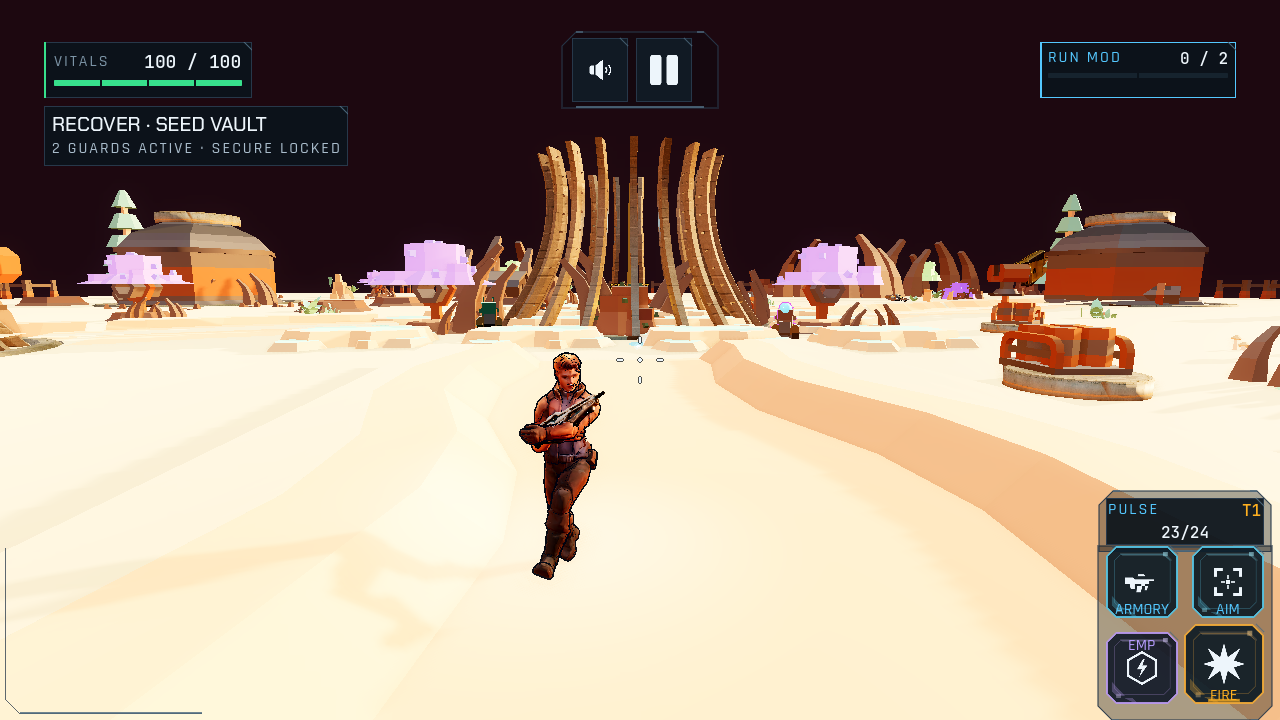
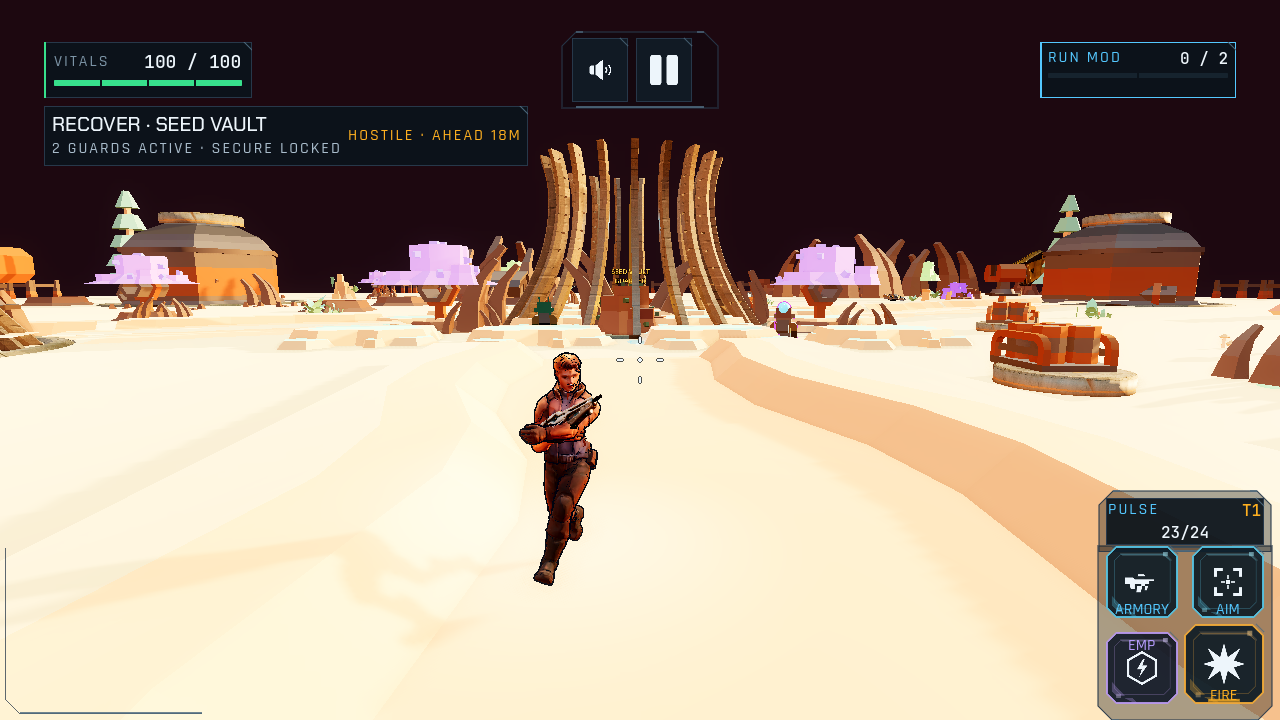
docs(validation): refresh runtime QA evidence and touch/motion scripts after audit polish

diff --git a/docs/VALIDATION.md b/docs/VALIDATION.md
@@ -8,27 +8,27 @@ For intended behavior, read [`GAMEPLAY_DESIGN.md`](GAMEPLAY_DESIGN.md). For requ
 
 | Item | Current checkpoint |
 |---|---|
-| Runtime, UI/UX, and E2E QA source | `390491f286f13de6f0d153e81a22a2576996b12f` |
-| Godot/Web CI | [40986603110](https://github.com/xam-eth/Cyber-Strike/actions/runs/40986603110) — **SUCCESS** (`Static checks`, `Headless smoke tests 38/38`, `Web preview build` including Step 20 `--recovery-e2e`) |
-| Committed Web payload | `dd7aa81` |
[1 lines of base64/hex data omitted]
+| Runtime, UI/UX, and E2E QA source | `fa9fc75` (audit stabilization over `b7794ae`) |
+| Godot/Web CI | [41036347813](https://github.com/xam-eth/Cyber-Strike/actions/runs/41036347813) — **SUCCESS** (`Static checks`, `Headless smoke tests 38/38`, `Web preview build` including Step 20 `--recovery-e2e`) |
+| Committed Web payload | `2ee3fb9` |
[2 lines of base64/hex data omitted]
 | Desktop `1280×720` E2E evidence | [`../qa-evidence/tech-hunt/recovery-e2e-1280x720.json`](../qa-evidence/tech-hunt/recovery-e2e-1280x720.json) (12 runtime captures) |
 | Mobile `844×390` Recovery evidence | [`../qa-evidence/tech-hunt/recovery-mobile-844x390.json`](../qa-evidence/tech-hunt/recovery-mobile-844x390.json) (5 runtime captures) |
 
 ### What this checkpoint verifies
 
-- **VERIFIED (Automated Chromium TECH HUNT E2E — `Verdant clear → Arc Blueprint secure → Extract → Tier-2 → 106-vital redeploy`):**
-  - Executed both in CI ([40986603110](https://github.com/xam-eth/Cyber-Strike/actions/runs/40986603110), Step 20) and locally against payload `dd7aa81` (`node tools/web_qa.mjs --recovery-e2e --viewport 1280x720`) with **0 failed checks and 0 page/script errors**:
+- **VERIFIED (Automated Chromium TECH HUNT E2E — `Verdant clear → Arc Blueprint secure → Extract (+20 BP) → Tier-2 → 106-vital redeploy`):**
+  - Executed both in CI ([41036347813](https://github.com/xam-eth/Cyber-Strike/actions/runs/41036347813), Step 20) and locally against payload `2ee3fb9` (`node tools/web_qa.mjs --recovery-e2e --viewport 1280x720`) with **0 failed checks and 0 page/script errors**:
     1. **Tier 1 landing & relative guidance:** Deployed Sable at `VITALS 100 / 100` (`tier=1/1 reduction=0%`) in Verdant Bloom with immediate relative objective readout (`RECOVER · SEED VAULT / ARC SHOOTER BLUEPRINT · APPROACH · AHEAD 9M`) — [`root-1280x720-recovery-landing.png`](../qa-evidence/tech-hunt/root-1280x720-recovery-landing.png).
-    2. **Real guard engagement & clear:** Triggered `ENGAGE GUARDS [B]` ([`root-1280x720-recovery-engage-offer.png`](../qa-evidence/tech-hunt/root-1280x720-recovery-engage-offer.png)), verified `SECURE LOCKED` with active guard bearing (`HOSTILE · AHEAD` / `LEFT`) across `Guard_verdant_seed_vault_01` and `Guard_verdant_seed_vault_02` ([`root-1280x720-recovery-guarded.png`](../qa-evidence/tech-hunt/root-1280x720-recovery-guarded.png), [`root-1280x720-recovery-contact.png`](../qa-evidence/tech-hunt/root-1280x720-recovery-contact.png)), and eliminated both guards through real projectile/ADS combat (`guards=0`).
-    3. **Explicit Secure & unclipped Mission Complete breakdown:** Approached the Seed Vault (`SECURE CACHE [B]`, [`root-1280x720-recovery-ready-to-secure.png`](../qa-evidence/tech-hunt/root-1280x720-recovery-ready-to-secure.png)), secured the `arc_shooter` blueprint, and verified the unclipped `RECOVERY COMPLETE` card showing `ARC SHOOTER BLUEPRINT SECURED`, `NEW ARMORY ELIGIBILITY · ARC SHOOTER`, `ARMORY UNLOCK COST · 250 BP`, and `EXTRACT BANKS RUN #1 · UNLOCKS TIER 2 (106 HP · 3% ARMOR)` ([`root-1280x720-recovery-mission-complete.png`](../qa-evidence/tech-hunt/root-1280x720-recovery-mission-complete.png)).
-    4. **Exact-once Extract & persistent IndexedDB/localStorage handoff:** Selected `EXTRACT` (`completed_runs: 0 → 1`), verified the unclipped `EXTRACTION COMPLETE` breakdown separating kept permanent progress (`SECURED · ARC SHOOTER BLUEPRINT`, `PROMOTED · SABLE TIER 2 READY (106 HP · 3% ARMOR)`) from cleared temporary field state (`RESET · FIELD ENEMIES & TEMP RUN STATE CLEARED`) and next-step guidance (`NEXT · HOME > OPERATIVE > TIER 2 (106 HP) > REDEPLOY`) ([`root-1280x720-recovery-results-extracted.png`](../qa-evidence/tech-hunt/root-1280x720-recovery-results-extracted.png)), then returned via `HOME` after clean `Sfx.shutdown()` + Emscripten `IDBFS` `/userfs` flush (`aegis.runs = "1"`, `arc_shooter` blueprint saved, `verdant_seed_vault` secured) ([`root-1280x720-recovery-hub-tier2-ready.png`](../qa-evidence/tech-hunt/root-1280x720-recovery-hub-tier2-ready.png)).
-    5. **Tier 2 Plated selection, Arc Shooter rack eligibility, & 106-vital redeploy:** Opened `OPERATIVE`, selected newly unlocked `T2 PLATED` (`hero_human_tier_2.glb`, `VITALS 106 +6 HP`, `ARMOUR 3% blocked`, `1 / 3 RUNS TO TIER 3`) ([`root-1280x720-recovery-operative-tier2.png`](../qa-evidence/tech-hunt/root-1280x720-recovery-operative-tier2.png)), verified `ARC SHOOTER` transitioned from `BLUEPRINT` to `250 BP` in the weapon rack ([`root-1280x720-recovery-rack-arc-eligible.png`](../qa-evidence/tech-hunt/root-1280x720-recovery-rack-arc-eligible.png)), and redeployed into Verdant Bloom at `VITALS 106 / 106` (`Operative: hero=sable tier=2/2 vitals=106 reduction=3%`) with Seed Vault preserved as `SECURED` and HUD guidance automatically retargeting the optional cache (`OPTIONAL · LAB CACHE · PERMANENT +80 BP · LEFT 44M`) ([`root-1280x720-recovery-redeploy-tier2-106hp.png`](../qa-evidence/tech-hunt/root-1280x720-recovery-redeploy-tier2-106hp.png)).
-- **VERIFIED (Escalating lost-player guidance & `844×390` mobile layout):**
-  - Headless Godot `tests/recovery_smoke.gd` (`38/38` CI smoke suite) verified Area → Local (`AHEAD` / `LEFT` / `RIGHT` / `TURN AROUND` + distance) → Stuck escalation after `14s` without progress (`FOLLOW BEACON`), immediate reset on progress, combat guard tracking, and automatic shift from `verdant_seed_vault` to optional `verdant_crashed_lab` after primary secure.
-  - Mobile landscape `844×390` browser verification passed all checks without clipping or touch-cluster overlap ([`root-844x390-recovery-landing.png`](../qa-evidence/tech-hunt/root-844x390-recovery-landing.png), [`root-844x390-recovery-guarded.png`](../qa-evidence/tech-hunt/root-844x390-recovery-guarded.png)).
-- **VERIFIED (local static gates):** `./scripts/dev_check.sh` passed with **0 failed steps and 2 expected local skips**: 96/96 GDScript files parsed/linted/formatted, `0 FAIL` in `project_doctor.py`, `19/19` canonical documents, `103` tooling tests, `0` static-call or boundary violations, `327/327` EN/ID localization keys, `123` hero/tier checks, and synchronized `docs/ARCHITECTURE.md` module map.
+    2. **Real guard engagement, KO rewards, & clear:** Triggered `ENGAGE GUARDS [B]` ([`root-1280x720-recovery-engage-offer.png`](../qa-evidence/tech-hunt/root-1280x720-recovery-engage-offer.png)), verified elevated 3D `RecoveryLabel` (`y = 2.55`), `SECURE LOCKED` with active guard bearing (`HOSTILE · AHEAD` / `LEFT`) across `Guard_verdant_seed_vault_01` and `Guard_verdant_seed_vault_02` ([`root-1280x720-recovery-guarded.png`](../qa-evidence/tech-hunt/root-1280x720-recovery-guarded.png), [`root-1280x720-recovery-contact.png`](../qa-evidence/tech-hunt/root-1280x720-recovery-contact.png)), and eliminated both guards through real projectile/ADS combat (`RUNNER KO · +10 BP`, `SHOOTER KO · +10 BP`, `guards=0`).
+    3. **Explicit Secure & unclipped Mission Complete breakdown:** Approached the Seed Vault (`SECURE CACHE [B]`, [`root-1280x720-recovery-ready-to-secure.png`](../qa-evidence/tech-hunt/root-1280x720-recovery-ready-to-secure.png)), secured the `arc_shooter` blueprint, and verified the unclipped `RECOVERY COMPLETE` card with `check`-icon `EXTRACT`, `ARC SHOOTER BLUEPRINT SECURED`, `NEW ARMORY ELIGIBILITY · ARC SHOOTER`, `ARMORY UNLOCK COST · 250 BP`, and `EXTRACT BANKS RUN #1 · UNLOCKS TIER 2 (106 HP · 3% ARMOR)` ([`root-1280x720-recovery-mission-complete.png`](../qa-evidence/tech-hunt/root-1280x720-recovery-mission-complete.png)).
+    4. **Exact-once Extract (+20 BP banked) & persistent IndexedDB/localStorage handoff:** Selected `EXTRACT` (`completed_runs: 0 → 1`, `balance: 0 → 20`, `best_score: 0 → 200`), verified the unclipped `EXTRACTION COMPLETE` breakdown (`+20 BP BANKED`, `RETURN TO EXPLORE` reset, `SECURED · ARC SHOOTER BLUEPRINT`, `PROMOTED · SABLE TIER 2 READY (106 HP · 3% ARMOR)`, `RESET · FIELD ENEMIES & TEMP RUN STATE CLEARED`, and `ESC` pause-overlay guard) ([`root-1280x720-recovery-results-extracted.png`](../qa-evidence/tech-hunt/root-1280x720-recovery-results-extracted.png)), then returned via `HOME` after clean `Sfx.shutdown()` + Emscripten `IDBFS` `/userfs` flush (`20 BP · 1 RUN · BEST 200`, `arc_shooter` blueprint saved, `verdant_seed_vault` secured) ([`root-1280x720-recovery-hub-tier2-ready.png`](../qa-evidence/tech-hunt/root-1280x720-recovery-hub-tier2-ready.png)).
+    5. **Tier 2 Plated selection, Arc Shooter rack eligibility, & 106-vital redeploy:** Opened `OPERATIVE`, selected newly unlocked `T2 PLATED` (`hero_human_tier_2.glb`, `VITALS 106 +6 HP`, `ARMOUR 3% blocked`, `1 / 3 RUNS TO TIER 3`) ([`root-1280x720-recovery-operative-tier2.png`](../qa-evidence/tech-hunt/root-1280x720-recovery-operative-tier2.png)), verified `ARC SHOOTER` transitioned from `BLUEPRINT` to `250 BP` in the weapon rack ([`root-1280x720-recovery-rack-arc-eligible.png`](../qa-evidence/tech-hunt/root-1280x720-recovery-rack-arc-eligible.png)), and redeployed into Verdant Bloom at `VITALS 106 / 106` (`Operative: hero=sable tier=2/2 vitals=106 reduction=3%`) with Seed Vault preserved as `SECURED`, `"hud-weapon"` Armory button icon, and HUD guidance automatically retargeting the optional cache (`OPTIONAL · LAB CACHE · PERMANENT +80 BP · LEFT 44M`) ([`root-1280x720-recovery-redeploy-tier2-106hp.png`](../qa-evidence/tech-hunt/root-1280x720-recovery-redeploy-tier2-106hp.png)).
+- **VERIFIED (Pre-Track 2 Audit Stabilization across HUD, Modals, Web Shell, Native `FrontEnd`, & QA Tooling):**
+  - Headless Godot `tests/recovery_smoke.gd` (`38/38` CI smoke suite) verified Area → Local (`AHEAD` / `LEFT` / `RIGHT` / `TURN AROUND` + distance) → Stuck escalation after `14s` without progress (`FOLLOW BEACON`), immediate reset on progress, combat guard tracking, Explore guard KO banking (`+20 BP`) without pre-Extract death-farming, and automatic shift from `verdant_seed_vault` to optional `verdant_crashed_lab` after primary secure.
+  - Mobile landscape `844×390` and `667×375` browser verification (`web_qa.mjs --recovery`, `qa_touch_targets.mjs`, `qa_motion_touch.mjs`, `qa_touch_scroll.mjs`, `qa_flow_shots.mjs`, `web_loading_qa.mjs`, `web_support_qa.mjs`) passed with unclipped `ArmoryUi`, first-frame `48px` `HudCombatFeedbackUi`, 3-line `AegisUpgradeCard`, active `HOSTILE` bearing in `844×390` guard combat, synchronized `StageLoading` percentage (`83%` at `10 / 12`), clean `ARMOUR 0%` formatting, and full EN/ID Web shell localization ([`root-844x390-recovery-landing.png`](../qa-evidence/tech-hunt/root-844x390-recovery-landing.png), [`root-844x390-recovery-guarded.png`](../qa-evidence/tech-hunt/root-844x390-recovery-guarded.png)).
+- **VERIFIED (local static gates):** `./scripts/dev_check.sh` passed with **0 failed steps and 2 expected local skips**: 96/96 GDScript files parsed/linted/formatted, `0 FAIL` in `project_doctor.py`, `19/19` canonical documents, `103` tooling tests, `0` static-call or boundary violations, `329/329` EN/ID localization keys, `123` hero/tier checks, and synchronized `docs/ARCHITECTURE.md` module map.
 - **QUEUED / UNVERIFIED (roadmap boundaries):**
   - **Queued later tracks (not started in Track 1):** Track 2 (`Endless & Guardian`), Track 3 (`Multi-Theatre & Tech Modules`), and Track 4 (`Kestrel`).
   - **UNVERIFIED on physical Android hardware & human playtest:** native APK device testing remains paused; human balance/feel playtesting remains separate from automated Chromium verification.
